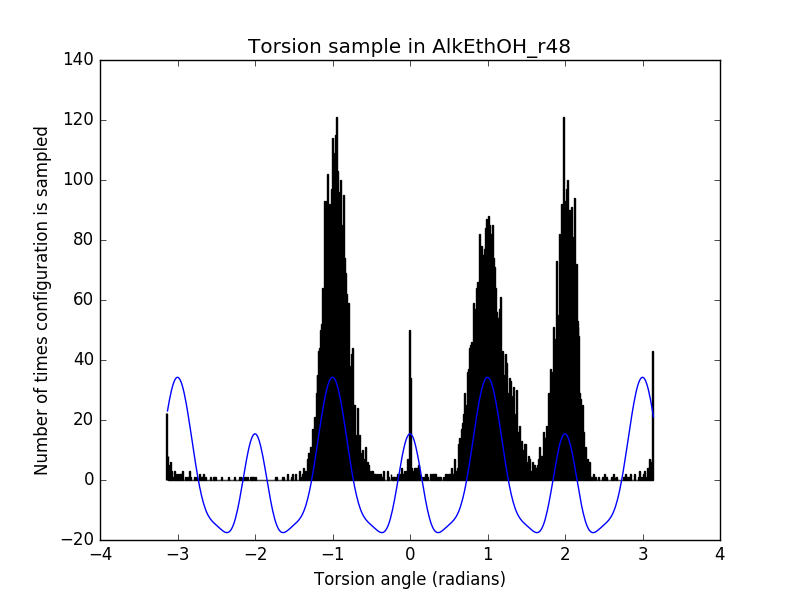
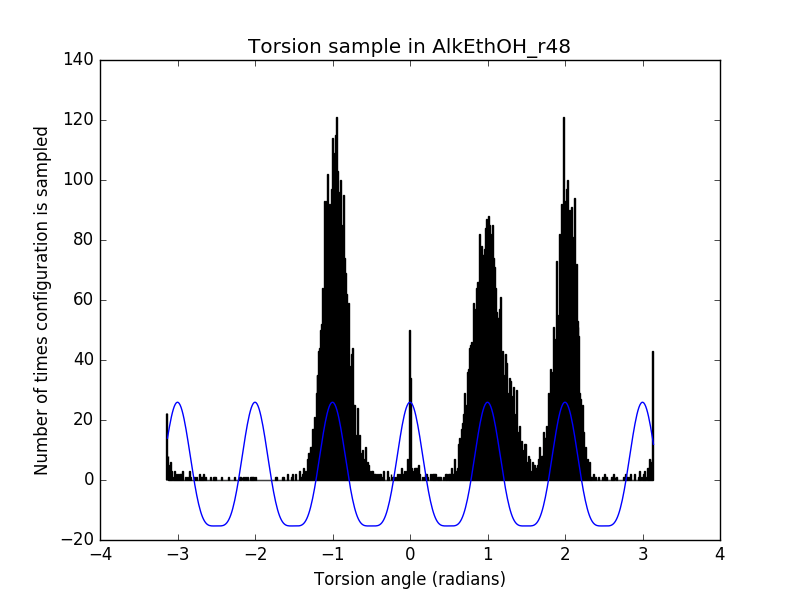
check torsion fit

diff --git a/single-molecule-property-generation/least_squares_fit_example.py b/single-molecule-property-generation/least_squares_fit_example.py
@@ -499,11 +499,11 @@ num_bins = 500
 #plt.title('Torsion [#1:1]-[#6X4:2]-[#6X4:3]-[#1:4]')
 #plt.legend()
 #plt.savefig('torsion_histograms/Torsion_likelihood_r48_r51_comp_tors_[#1:1]-[#6X4:2]-[#6X4:3]-[#1:4].png')
-print torsion_r48_a
+
 plt.figure()
 (n1,bins1,patch1) = plt.hist(torsion_r48_a,num_bins,label='AlkEthOH_r48',color='green')
-popt, pcov = sci.curve_fit(fourier, bins1[1:], n1, [1.0] * 7)
-plt.plot(bins1[1:],fourier(bins1[1:],popt[0],popt[1],popt[2],popt[3],popt[6]))
+popt, pcov = sci.curve_fit(fourier, bins1[1:], n1, [1.0] * 4, bounds=(0,np.inf))
+plt.plot(bins1[1:],fourier(bins1[1:],*popt))
 plt.ylabel('Number of times configuration is sampled')
 plt.xlabel('Torsion angle (radians)')
 plt.title('Torsion sample in AlkEthOH_r48')
